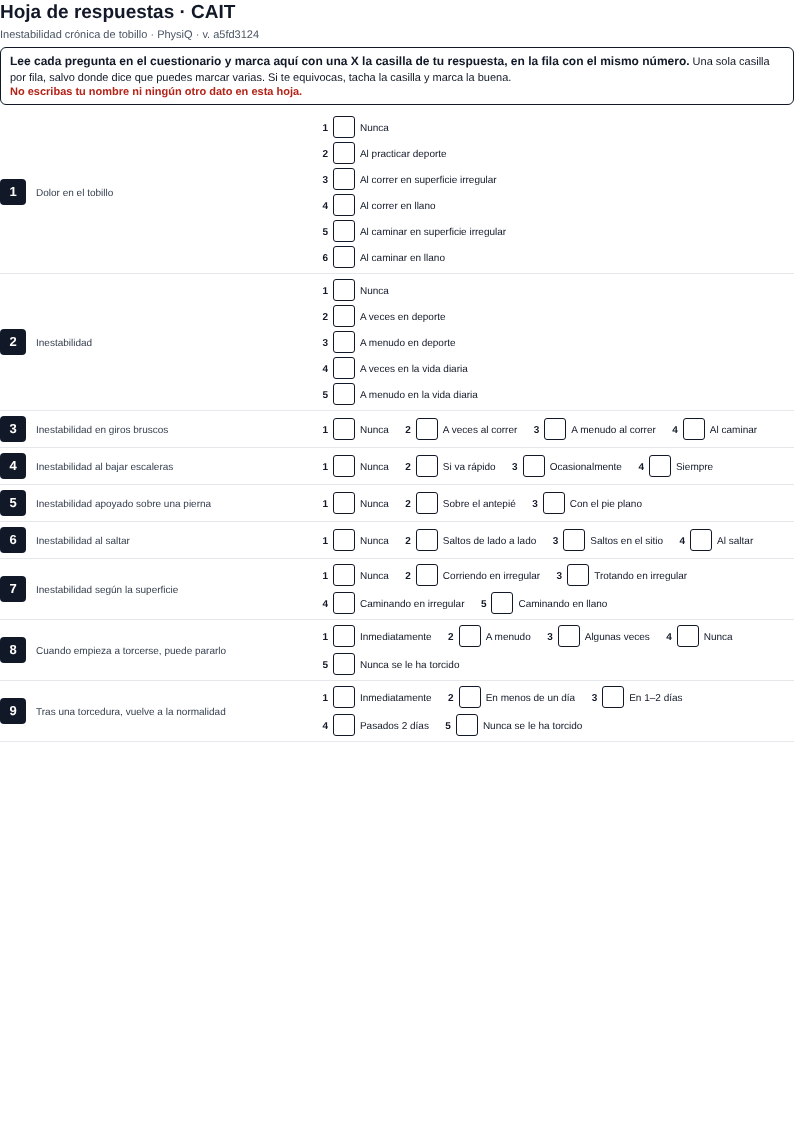
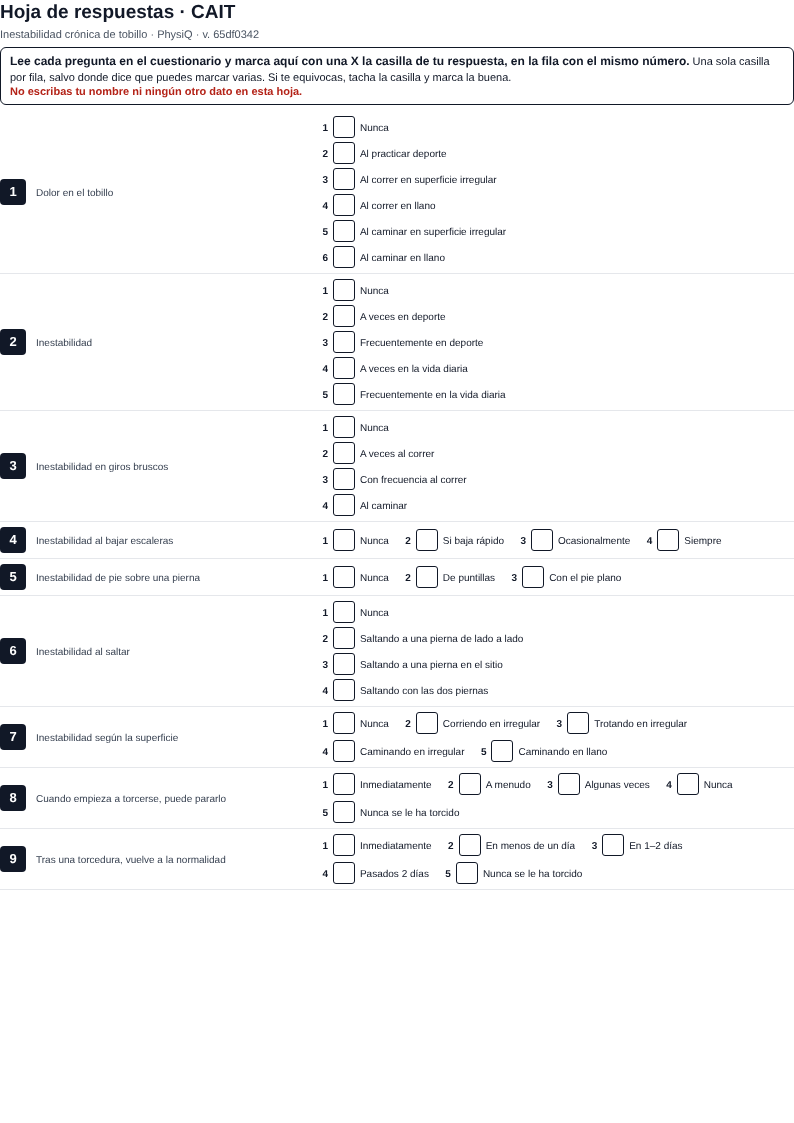
Cuestionarios: CAIT con la redacción de la CAIT-Sv
Etiquetas de las opciones tomadas del apéndice 2 de Rodríguez-Fernández 2015 (mismos puntos y orden); hoja de respuestas regenerada.

diff --git a/data/cuestionarios.js b/data/cuestionarios.js
@@ -796,14 +796,14 @@ export const CUESTIONARIOS = [
     titulo: 'Inestabilidad crónica de tobillo',
     grupo: 'tobillo_pie',
     validacionEs: 'Cruz-Díaz 2013 (Clin Rheumatol 32(1):91–98) · Rodríguez-Fernández 2015 (Disabil Rehabil 37(20):1888–1894; CAIT-Sv)',
-    instrucciones: 'Un cuestionario por tobillo: puntúa el afectado. Toca la frase que marcó el paciente.',
+    instrucciones: 'La hoja tiene una columna por tobillo (izquierdo y derecho): puntúa el afectado. Toca la frase que marcó el paciente.',
     items: [
       { n: 1, tipo: 'opciones', t: 'Dolor en el tobillo', opciones: [{ t: 'Nunca', v: 5 }, { t: 'Al practicar deporte', v: 4 }, { t: 'Al correr en superficie irregular', v: 3 }, { t: 'Al correr en llano', v: 2 }, { t: 'Al caminar en superficie irregular', v: 1 }, { t: 'Al caminar en llano', v: 0 }] },
-      { n: 2, tipo: 'opciones', t: 'Inestabilidad', opciones: [{ t: 'Nunca', v: 4 }, { t: 'A veces en deporte', v: 3 }, { t: 'A menudo en deporte', v: 2 }, { t: 'A veces en la vida diaria', v: 1 }, { t: 'A menudo en la vida diaria', v: 0 }] },
-      { n: 3, tipo: 'opciones', t: 'Inestabilidad en giros bruscos', opciones: [{ t: 'Nunca', v: 3 }, { t: 'A veces al correr', v: 2 }, { t: 'A menudo al correr', v: 1 }, { t: 'Al caminar', v: 0 }] },
-      { n: 4, tipo: 'opciones', t: 'Inestabilidad al bajar escaleras', opciones: [{ t: 'Nunca', v: 3 }, { t: 'Si va rápido', v: 2 }, { t: 'Ocasionalmente', v: 1 }, { t: 'Siempre', v: 0 }] },
-      { n: 5, tipo: 'opciones', t: 'Inestabilidad apoyado sobre una pierna', opciones: [{ t: 'Nunca', v: 2 }, { t: 'Sobre el antepié', v: 1 }, { t: 'Con el pie plano', v: 0 }] },
-      { n: 6, tipo: 'opciones', t: 'Inestabilidad al saltar', opciones: [{ t: 'Nunca', v: 3 }, { t: 'Saltos de lado a lado', v: 2 }, { t: 'Saltos en el sitio', v: 1 }, { t: 'Al saltar', v: 0 }] },
+      { n: 2, tipo: 'opciones', t: 'Inestabilidad', opciones: [{ t: 'Nunca', v: 4 }, { t: 'A veces en deporte', v: 3 }, { t: 'Frecuentemente en deporte', v: 2 }, { t: 'A veces en la vida diaria', v: 1 }, { t: 'Frecuentemente en la vida diaria', v: 0 }] },
+      { n: 3, tipo: 'opciones', t: 'Inestabilidad en giros bruscos', opciones: [{ t: 'Nunca', v: 3 }, { t: 'A veces al correr', v: 2 }, { t: 'Con frecuencia al correr', v: 1 }, { t: 'Al caminar', v: 0 }] },
+      { n: 4, tipo: 'opciones', t: 'Inestabilidad al bajar escaleras', opciones: [{ t: 'Nunca', v: 3 }, { t: 'Si baja rápido', v: 2 }, { t: 'Ocasionalmente', v: 1 }, { t: 'Siempre', v: 0 }] },
+      { n: 5, tipo: 'opciones', t: 'Inestabilidad de pie sobre una pierna', opciones: [{ t: 'Nunca', v: 2 }, { t: 'De puntillas', v: 1 }, { t: 'Con el pie plano', v: 0 }] },
+      { n: 6, tipo: 'opciones', t: 'Inestabilidad al saltar', opciones: [{ t: 'Nunca', v: 3 }, { t: 'Saltando a una pierna de lado a lado', v: 2 }, { t: 'Saltando a una pierna en el sitio', v: 1 }, { t: 'Saltando con las dos piernas', v: 0 }] },
       { n: 7, tipo: 'opciones', t: 'Inestabilidad según la superficie', opciones: [{ t: 'Nunca', v: 4 }, { t: 'Corriendo en irregular', v: 3 }, { t: 'Trotando en irregular', v: 2 }, { t: 'Caminando en irregular', v: 1 }, { t: 'Caminando en llano', v: 0 }] },
       { n: 8, tipo: 'opciones', t: 'Cuando empieza a torcerse, puede pararlo', opciones: [{ t: 'Inmediatamente', v: 3 }, { t: 'A menudo', v: 2 }, { t: 'Algunas veces', v: 1 }, { t: 'Nunca', v: 0 }, { t: 'Nunca se le ha torcido', v: 3 }] },
       { n: 9, tipo: 'opciones', t: 'Tras una torcedura, vuelve a la normalidad', opciones: [{ t: 'Inmediatamente', v: 3 }, { t: 'En menos de un día', v: 2 }, { t: 'En 1–2 días', v: 1 }, { t: 'Pasados 2 días', v: 0 }, { t: 'Nunca se le ha torcido', v: 3 }] },
@@ -814,8 +814,8 @@ export const CUESTIONARIOS = [
       { etiqueta: 'Sin inestabilidad', nivel: 'ok' },
     ],
     interpretacionTexto: 'Suma de 0 (más inestable) a 30. Cortes publicados: ≤ 27 (Hiller 2006, sensibilidad 82,9 %, especificidad 74,7 %) y < 24 (International Ankle Consortium, Gribble 2014: «score of < 24», es decir, ≤ 23).',
-    fuente: 'Hoja con puntos por opción aportada por el usuario · Hiller 2006 · Gribble 2014 · Rodríguez-Fernández 2015',
-    nota: 'La hoja no indica de qué validación española sale; sus puntos coinciden con los del original. Corte del International Ankle Consortium leído en Gribble 2014 (Br J Sports Med 48:1014–1018; el mismo texto en J Athl Train 49(1):121–127): «< 24», así que 24 cae en la zona dudosa.',
+    fuente: 'Rodríguez-Fernández 2015 (CAIT-Sv, apéndice 2: redacción y puntos) · Hiller 2006 · Gribble 2014',
+    nota: 'Etiquetas resumidas de la CAIT-Sv (Rodríguez-Fernández 2015, apéndice 2), cuyos puntos son los del original. Circula otra hoja española sin autoría («Cuestionario CAIT», aportada por el usuario) con los mismos puntos y otra redacción en las preguntas 5 y 6 («sobre el pulpejo», «saltos pequeños»): mejor la CAIT-Sv, que es la validada. Corte del International Ankle Consortium leído en Gribble 2014 (Br J Sports Med 48:1014–1018; el mismo texto en J Athl Train 49(1):121–127): «< 24», así que 24 cae en la zona dudosa.',
   },
   {
     id: 'idfai',

diff --git a/docs/cuestionarios.md b/docs/cuestionarios.md
@@ -173,10 +173,11 @@ El usuario aportó hojas españolas y se descargaron los anexos de las validacio
 | iHOT-12 | González-de-la-Flor 2022, Supplementary S1 | Coincide (12 líneas de 100 mm; P9 «Esto no me parece relevante») |
 | TSK-11 | TSK-11SV de Gómez-Pérez, López-Martínez y Ruiz-Párraga 2011 (aportada) | Coincide (11 ítems en el mismo orden, 1–4 impreso, ninguno invertido) |
 | FABQ | Fundación Kovacs (aportada; «libre para su uso clínico») | Coincide (16 frases en el mismo orden, 0–6 impreso; la hoja no trae cómo se puntúa) |
+| CAIT | CAIT-Sv, Rodríguez-Fernández 2015, apéndice 2 (artículo aportado) | Coincide en puntos y orden. Etiquetas de la app pasadas a su redacción. La hoja «Cuestionario CAIT» sin autoría que circula tiene los mismos puntos pero otra redacción en las preguntas 5 y 6: usar la CAIT-Sv |
 | PRTEE | Hernández-Sánchez 2013 (aportada) | Coincide (15 ítems, 0–10 impreso). La hoja pide tachar lo que nunca se hace; la app pide todos |
 | S-LANSS | Aportada (de La Touche, coautor de la validación) | Coincide (7 ítems). El papel pone «a) NO» antes que «b) SÍ»: la hoja de respuestas también (`hoja.sino`) |
 
-Artículo en acceso abierto sin la hoja: GAD-7 (García-Campayo 2010), PHQ-9 (Muñoz-Navarro 2017), FAAM (Cervera-Garvi 2017). Cotejados antes con el anexo de su artículo (consta en su `nota` o `fuente` de `data/cuestionarios.js`): CADC (Martín-Aragón 1999, anexo 1), Kujala (Gil-Gámez 2016, apéndice 2), VISA-P (Hernández-Sánchez 2011, apéndice), VISA-A (Hernández-Sánchez 2018) y LEFS (Cruz-Díaz 2014, apéndice 1). Sin hoja española comprobada: FAAM (orden de columnas tomado de la leyenda), CAIT (hoja aportada sin validación identificada) e IdFAI (etiquetas traducidas por nosotros).
+Artículo en acceso abierto sin la hoja: GAD-7 (García-Campayo 2010), PHQ-9 (Muñoz-Navarro 2017), FAAM (Cervera-Garvi 2017). Cotejados antes con el anexo de su artículo (consta en su `nota` o `fuente` de `data/cuestionarios.js`): CADC (Martín-Aragón 1999, anexo 1), Kujala (Gil-Gámez 2016, apéndice 2), VISA-P (Hernández-Sánchez 2011, apéndice), VISA-A (Hernández-Sánchez 2018) y LEFS (Cruz-Díaz 2014, apéndice 1). Sin hoja española comprobada: FAAM (orden de columnas tomado de la leyenda) e IdFAI (etiquetas traducidas por nosotros).
 
 ## 6. Pendiente de revisión clínica
 
